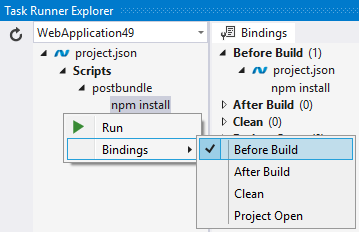
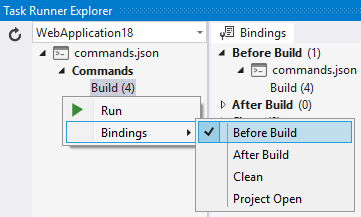
Updated readme

Changed region(s): [[0.0, 0.0, 1.0, 1.0]]

diff --git a/README.md b/README.md
@@ -1,14 +1,14 @@
-## DNX Scripts Task Runner extension
+## Command Task Runner extension
 
-Adds support for DNX scripts in Visual Studio 2015's
+Adds support for command line scripts in Visual Studio 2015's
 Task Runner Explorer.
 
-[![Build status](https://ci.appveyor.com/api/projects/status/v2l19gi8n12nvh86?svg=true)](https://ci.appveyor.com/project/madskristensen/projecttaskrunner)
+[![Build status](https://ci.appveyor.com/api/projects/status/grreswaawyla0j6c?svg=true)](https://ci.appveyor.com/project/madskristensen/commandtaskrunner)
 
 Download the extension at the
 [VS Gallery](https://visualstudiogallery.msdn.microsoft.com/9397a2da-c93a-419c-8408-4e9af30d4e36)
 or get the
-[nightly build](http://vsixgallery.com/extension/ec768980-f2de-4db0-a6e2-5e57fa612ad5/)
+[nightly build](http://vsixgallery.com/extension/fc1aafb2-321e-41bd-ac37-03b09ea8ef31/)
 
 ### DNX scripts
 
@@ -17,9 +17,12 @@ the "scripts" element.
 
 ```js
 {
-	"scripts": {
-		"postbundle": [ "npm install", "bower install" ],
-		"postpack": "npm install"
+	"commands": {
+		"Build": {
+			"FileName": "cmd.exe",
+			"WorkingDirectory": ".",
+			"Arguments": "/c build\\build.cmd"
+		}
 	}
 }
 ```
@@ -39,10 +42,3 @@ Script bindings make it possible to associate individual scripts
 with Visual Studio events such as "After build" etc.
 
 ![Visual Studio bindings](art/bindings.png)
-
-### Intellisense
-
-If you manually edit bindings in project.json, then full
-Intellisense is provided.
-
-![Visual Studio Intellisense](art/intellisense.png)
